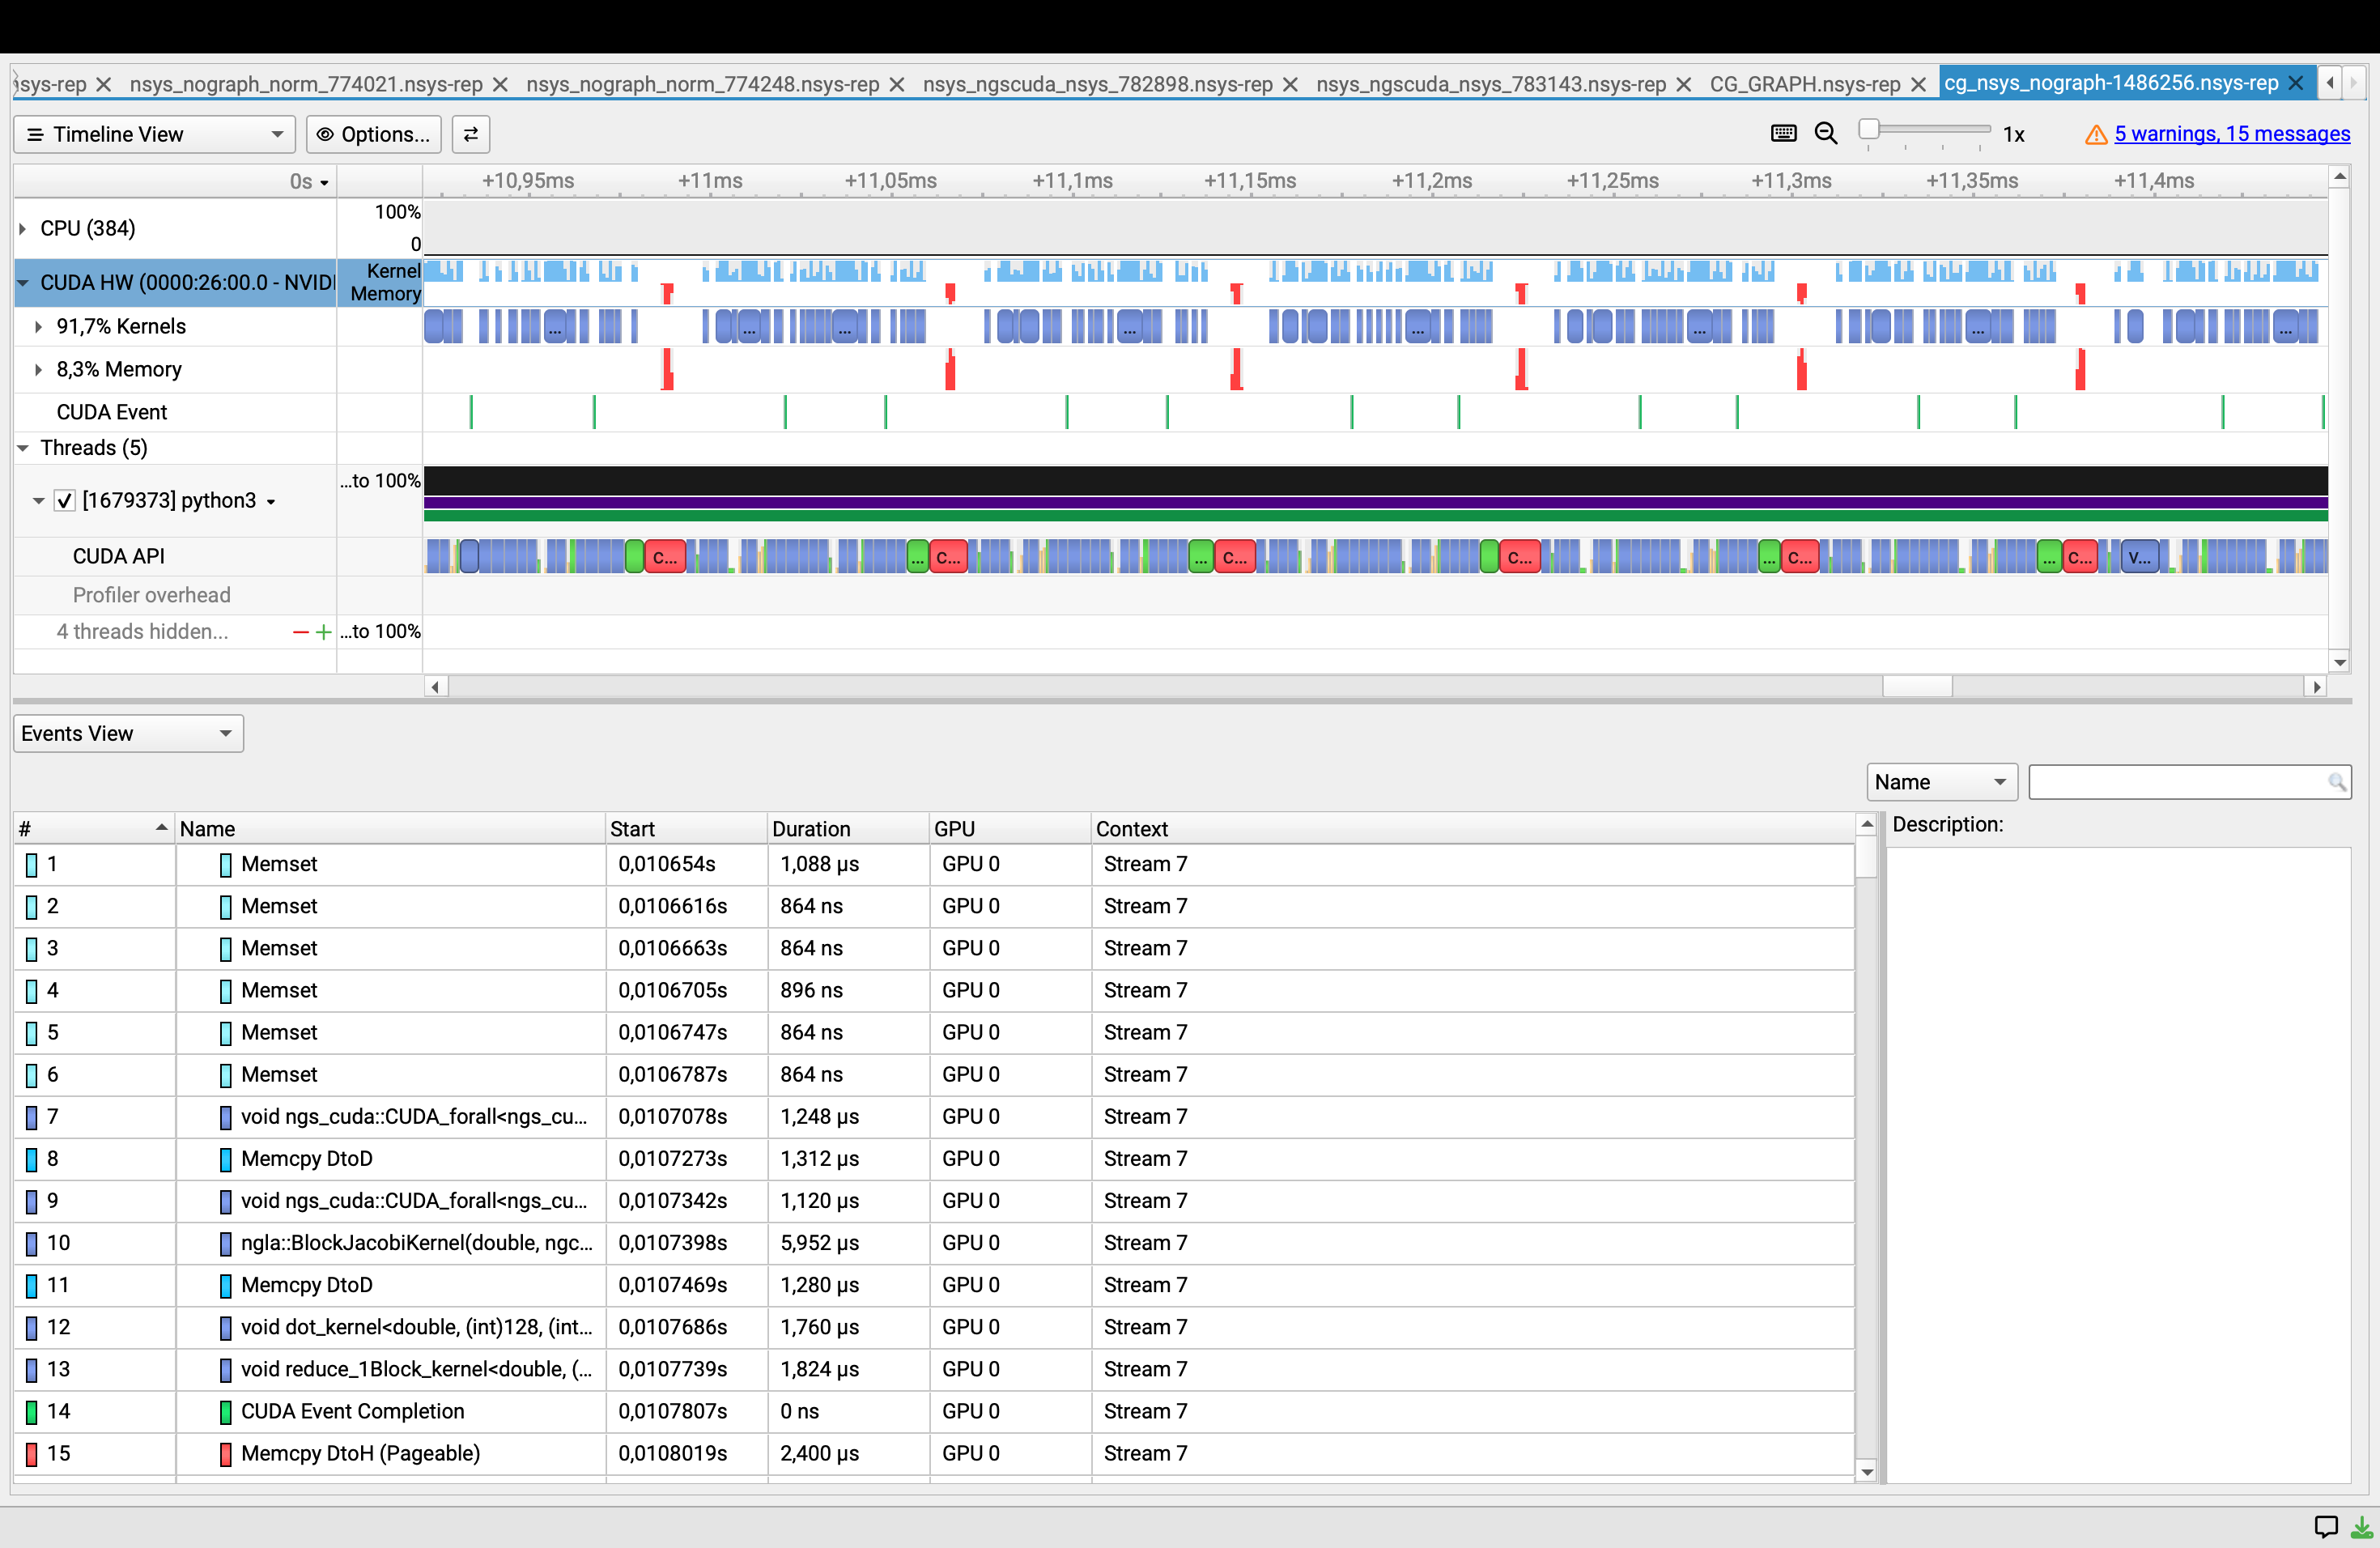
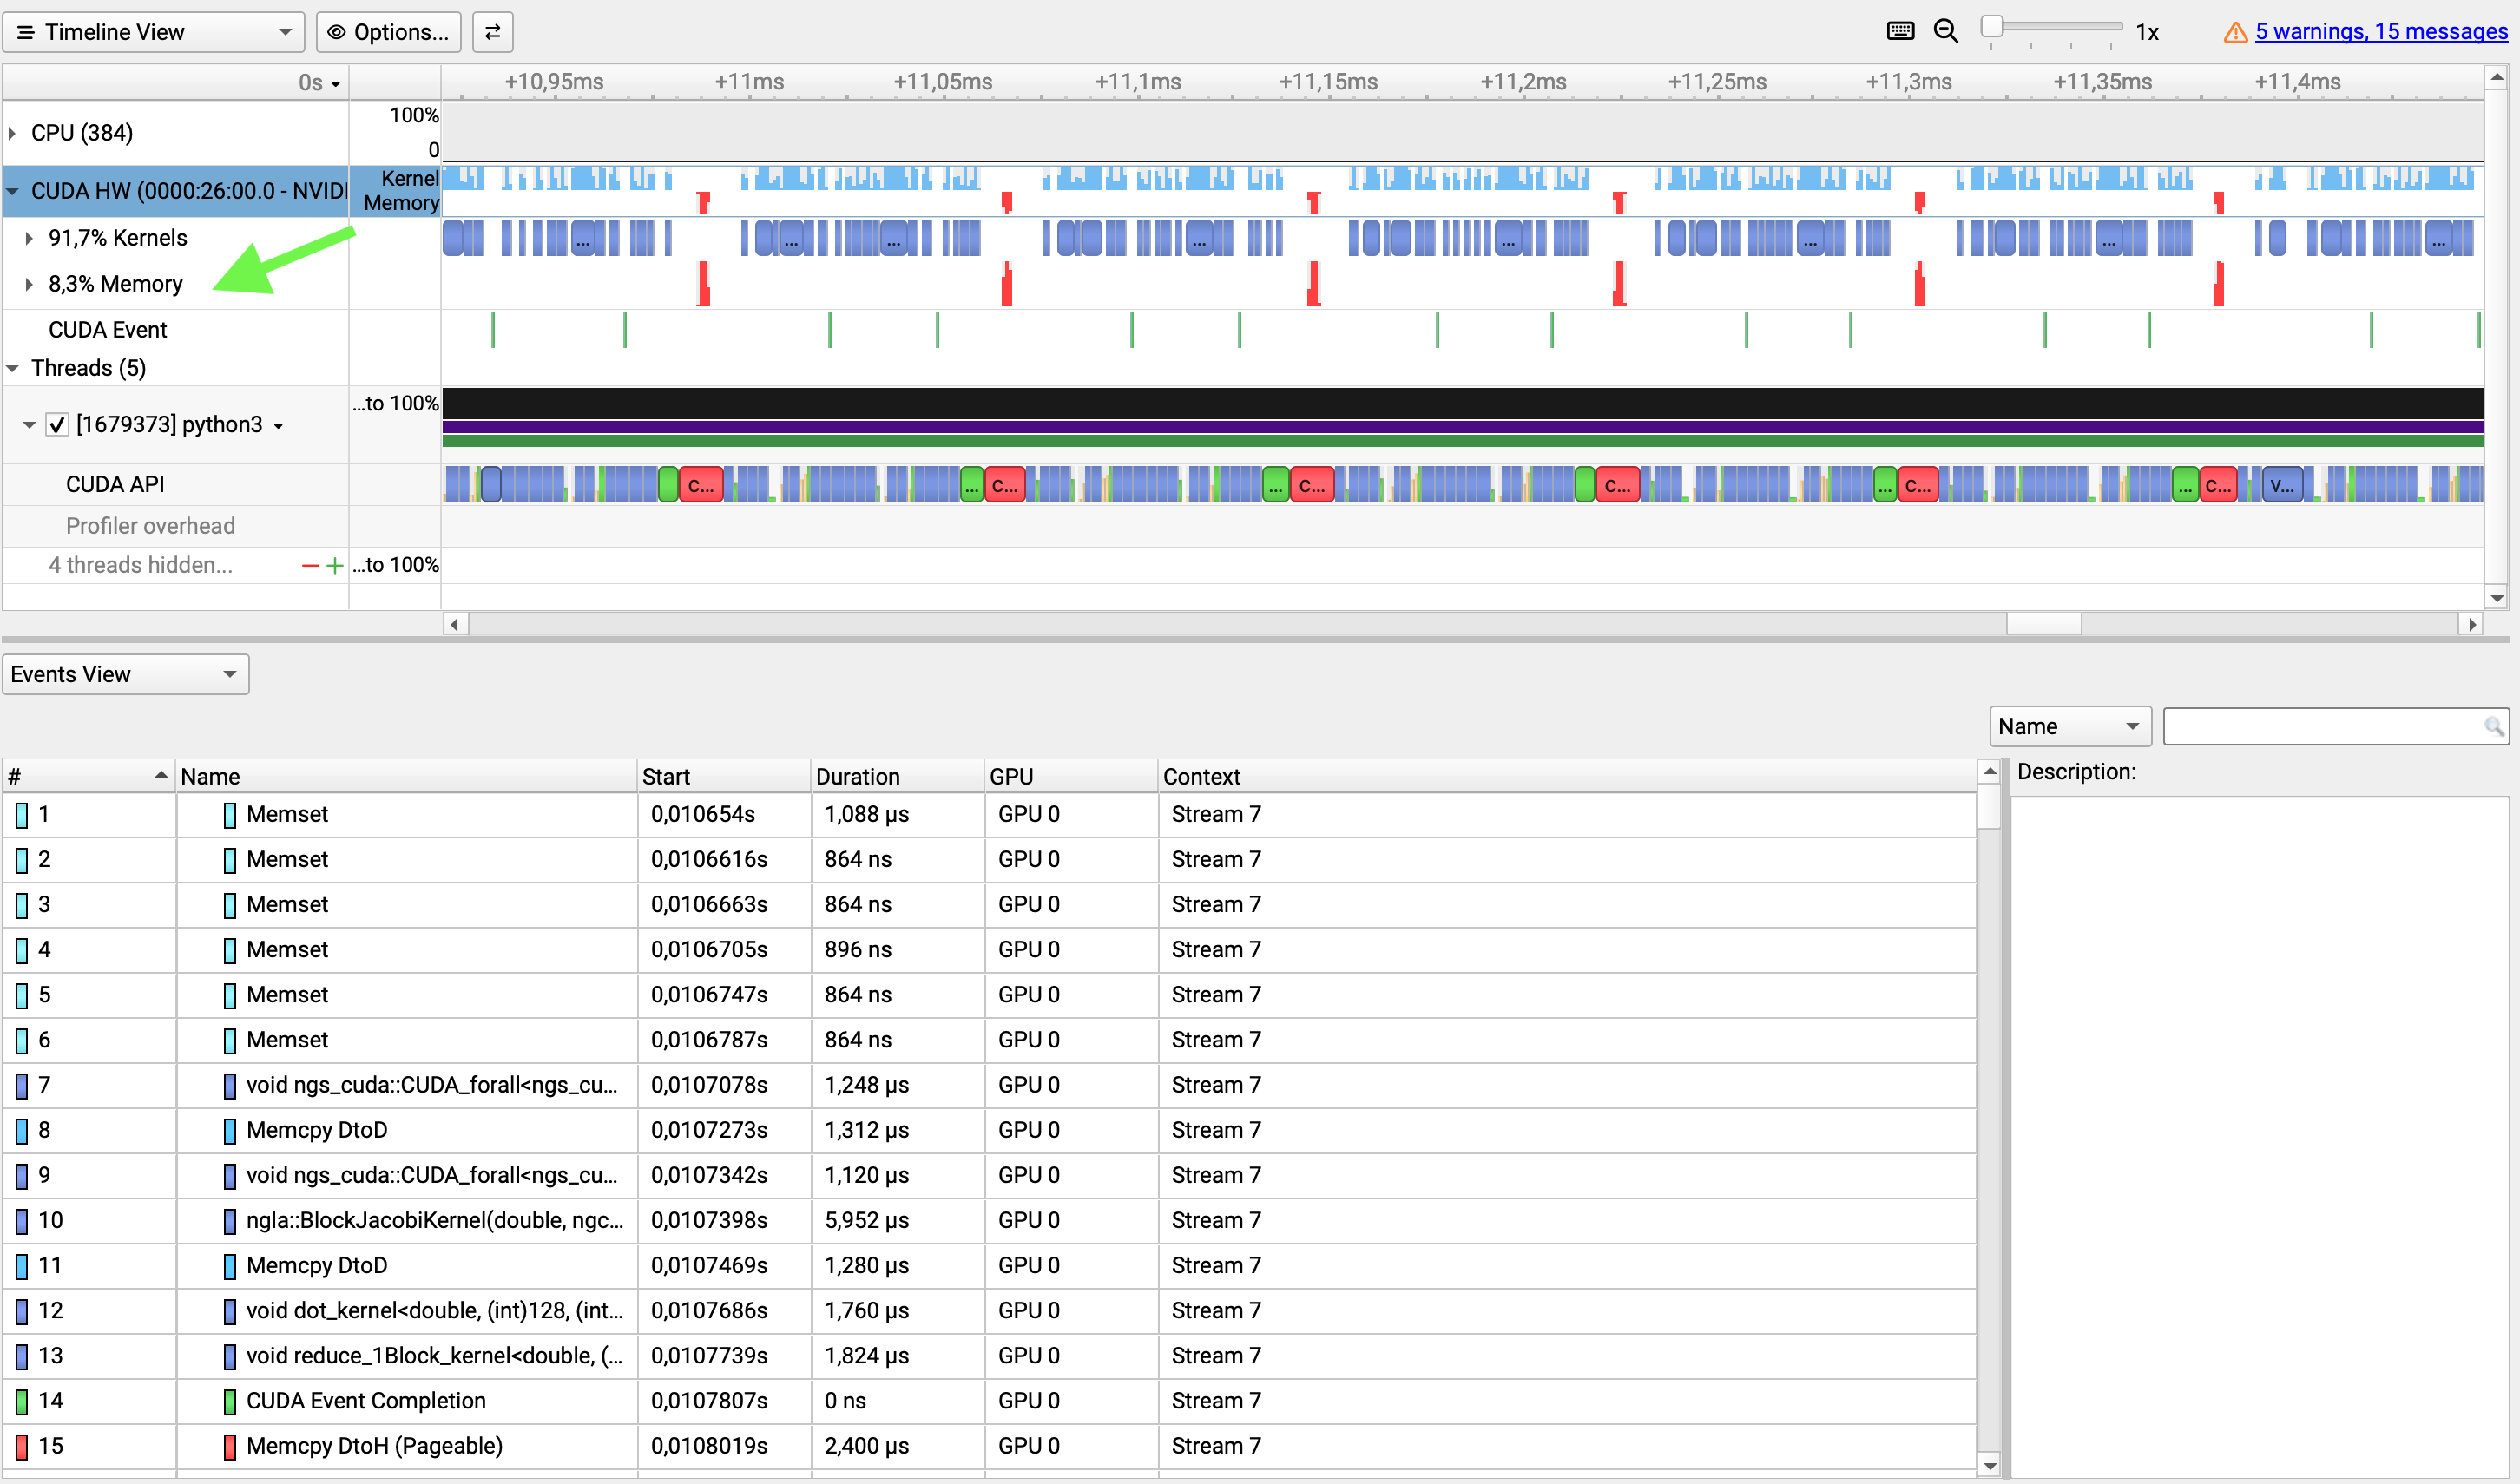
add more

diff --git a/docs/implementation.md b/docs/implementation.md
@@ -10,7 +10,11 @@ The implementation has two steps.
 
 ## Step 1 — Capture the iteration body as a CUDA graph (goal: eliminate launch overhead)
 
-![Timeline overview](pictures/impl1_canva.png)
+<!-- ![Timeline overview](pictures/impl1_canva.png) -->
+
+![Launch overhead](pictures/impl1_canva.png)
+<p style="font-size:0.75em; color:#888; margin-top:2px;">Inspired by: NVIDIA Corporation, "CUDA Graphs", OLCF Training, 2021.</p>
+
 
 The sequence of CG iteration is captured once using CUDA stream capture:
 
@@ -29,7 +33,11 @@ no per-kernel `cudaLaunchKernel` call, just one `cudaGraphLaunch`.
 ## Step 2 — Wrap in a CUDA Conditional While node (eliminate CPU convergence checks)
 
 
-![Timeline overview](pictures/impl2_canva.png)
+<!-- ![Timeline overview](pictures/impl2_canva.png) -->
+
+![WHILE node](pictures/impl2_canva.png)
+<p style="font-size:0.75em; color:#888; margin-top:2px;">Inspired by: S. Jones, "CUDA Graphs Conditional Nodes", NVIDIA / HiHAT, Aug 2024.</p>
+
 
 A standard graph replays a **fixed** number of times. To loop until convergence,
 the body graph is embedded inside a **CUDA Conditional While node**:

diff --git a/docs/timings.md b/docs/timings.md
@@ -1,4 +1,4 @@
-# Results & Timings
+# Timings
 
 All results on **H100 (Musica)**, 5 runs averaged, single GPU.
 